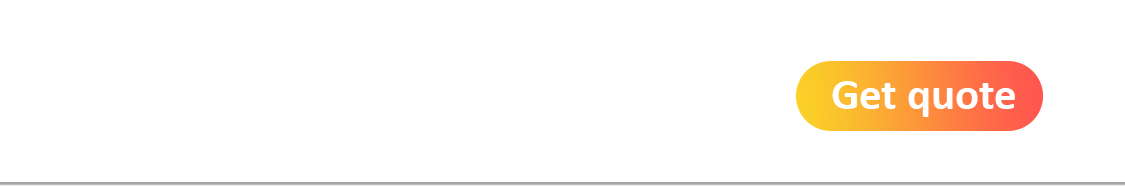
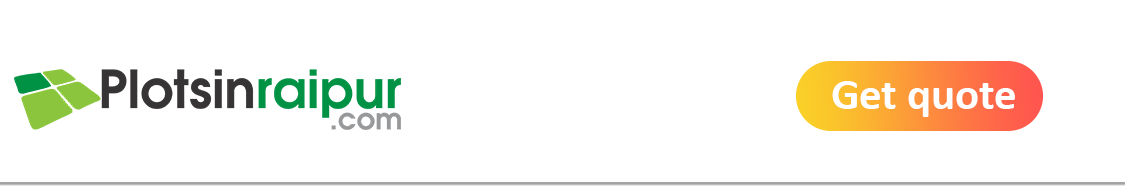
first

Changed region(s): [[0.0, 0.3495, 0.3733, 0.6989]]

diff --git a/index.html b/index.html
@@ -12,8 +12,8 @@
 
 <body style=>
     <!-- HEADER********** -->
-    <header class="jcontainer-fluid">
-        <a href=""><img src="img/logo.png" alt=""></a>
+    <header class="">
+        <a href=""><img src="img/navbar.png" alt=""></a>
 
     </header>
 
